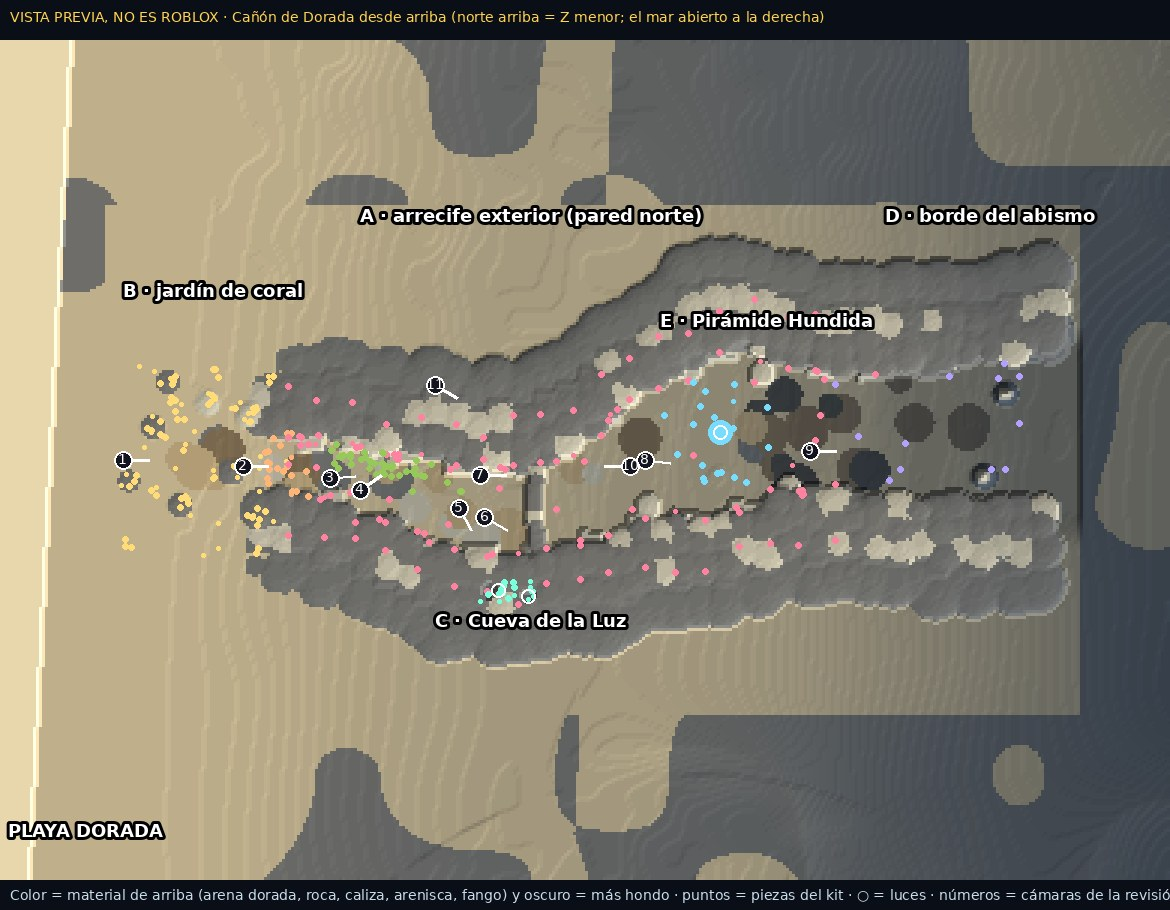
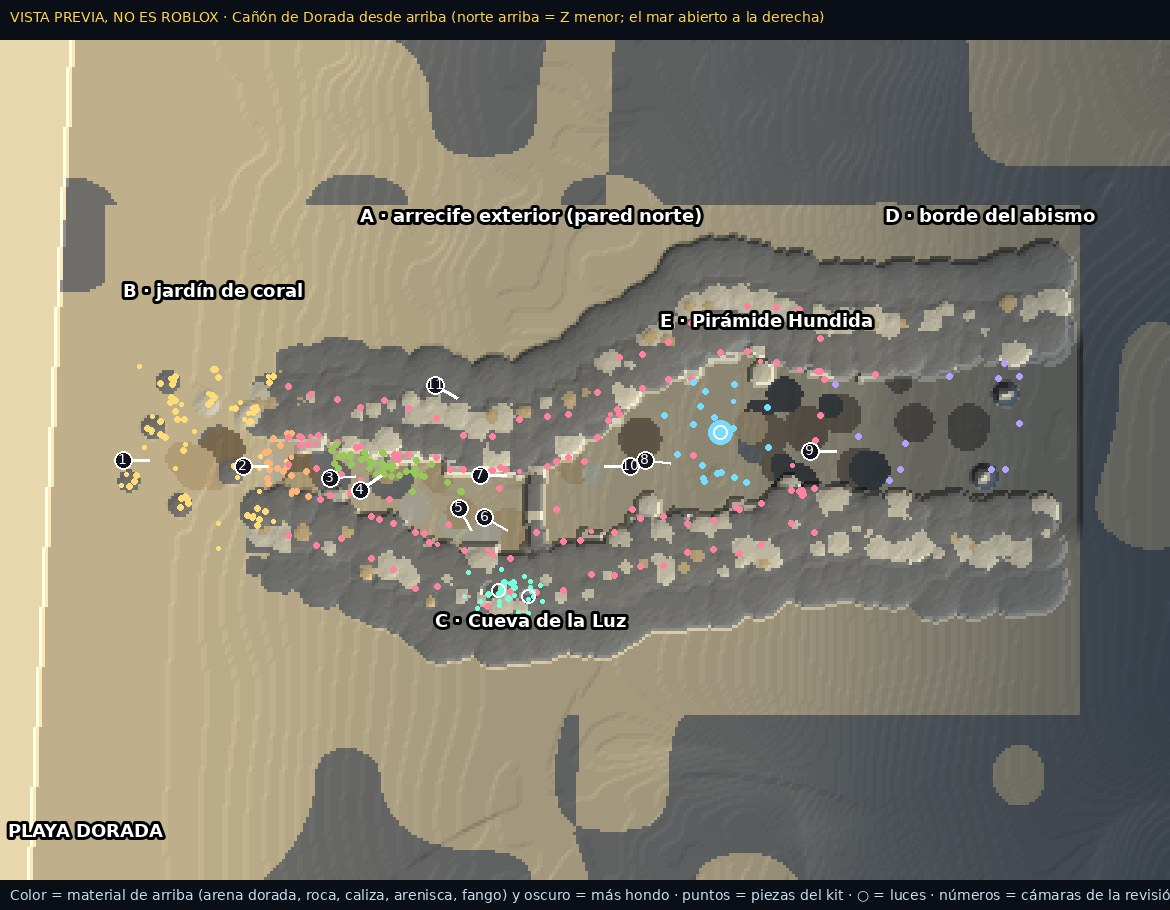
Mar v2: vistas previas del Cañón de Dorada desde las cámaras de la revisión y corrección de paredes vacías
Once vistas de Blender (VISTA PREVIA, NO ES ROBLOX) desde las mismas cámaras
que la revisión por rayos, hoja de vistas y mapa desde arriba. Tras mirarlas:
manchas de caliza y arenisca en las cimas, vetas en las paredes, más corales
en las cimas y setas de luz en las paredes de la cueva (dentro del tope de
piezas del móvil).

Claude-Session: https://claude.ai/code/session_01NLHSc9vUgM3Lfn2jUL556r

diff --git a/roblox/docs/mar/diseno-v2.md b/roblox/docs/mar/diseno-v2.md
@@ -91,11 +91,11 @@ boca oscura, tallo de kelp con hojas y flotadores… Con el kit subido, el resto
 
 ## 7. Técnica y rendimiento
 
-- Terreno: 919 rellenos (`FillBall`/`FillBlock`/`FillCylinder`) en orden; los huecos (cueva, arco,
+- Terreno: ~1100 rellenos (`FillBall`/`FillBlock`/`FillCylinder`) en orden; los huecos (cueva, arco,
   claraboyas) son **agua**. Nada sólido por encima de -9 (2 m bajo la superficie): los barcos pasan.
 - Piezas: anclado, `CanCollide`/`CanTouch`/`CanQuery` = false, sin sombra; 7 modelos `Atomic`
-  (StreamingEnabled los manda por trozos). Respaldo: 2350 piezas como mucho (tope 2400, el del móvil;
-  dentro del cañón SeaBiome no planta nada). Con mallas: ~330 MeshPart.
+  (StreamingEnabled los manda por trozos). Respaldo: 2394 piezas como mucho (tope 2400, el del móvil;
+  dentro del cañón SeaBiome no planta nada). Con mallas: ~340 MeshPart (+ las vetas Neon de las ruinas).
 - Luz: 3 `PointLight`, 4 haces (Neon al 92 % transparente, más tenues de noche), 5 emisores de partículas
   con fuente (plancton, motas, burbujas de una fumarola, esporas, nieve marina).
 - Movimiento (`ReefZoneFx`): solo lo cercano (48 cosas, 16 en el móvil), cada una a su ritmo, con
@@ -182,3 +182,14 @@ Mándame una captura en cada número (las vistas previas `v2-vista-NN.jpg` son l
 | 14 | Funciona en el juego, no solo en imagen | 🟡 construido por el servidor; 📱 falta verlo |
 | 15 | Identidad propia | ✅ formas y nombres propios (Cañón de Dorada, Cueva de la Luz, Pirámide Hundida) |
 | 16 | Arquitectura reutilizable | ✅ ReefZone (datos) + MarKit + ReefZoneBuilder: otra zona = otros datos |
+
+## 11. Fase 5: lo que se corrigió después de mirar las vistas previas
+
+- Las primeras vistas salían con la cámara girada 90° y el kelp con las hojas amontonadas al pie:
+  arreglado en el script de Blender (las hojas se curvan en su sitio y luego se colocan en el tallo).
+- Las mallas se deformaban para caber en un tamaño fijo: ahora se miden sin deformar y `MarKit.Size`
+  dice lo mismo que la malla (lo prueba `test-reefzone`).
+- Paredes y cimas se veían de roca gris y vacías (vistas 5, 6, 9, 10, 11): manchas de caliza y arenisca
+  en las cimas, vetas de caliza en las caras, más corales en las cimas y setas de luz colgadas en las
+  paredes de la cueva (a cambio, menos praderas y bichos pequeños en el jardín: el tope del móvil).
+  Sigue siendo lo más flojo de la zona: con el kit subido hay margen para más vida en las paredes.
